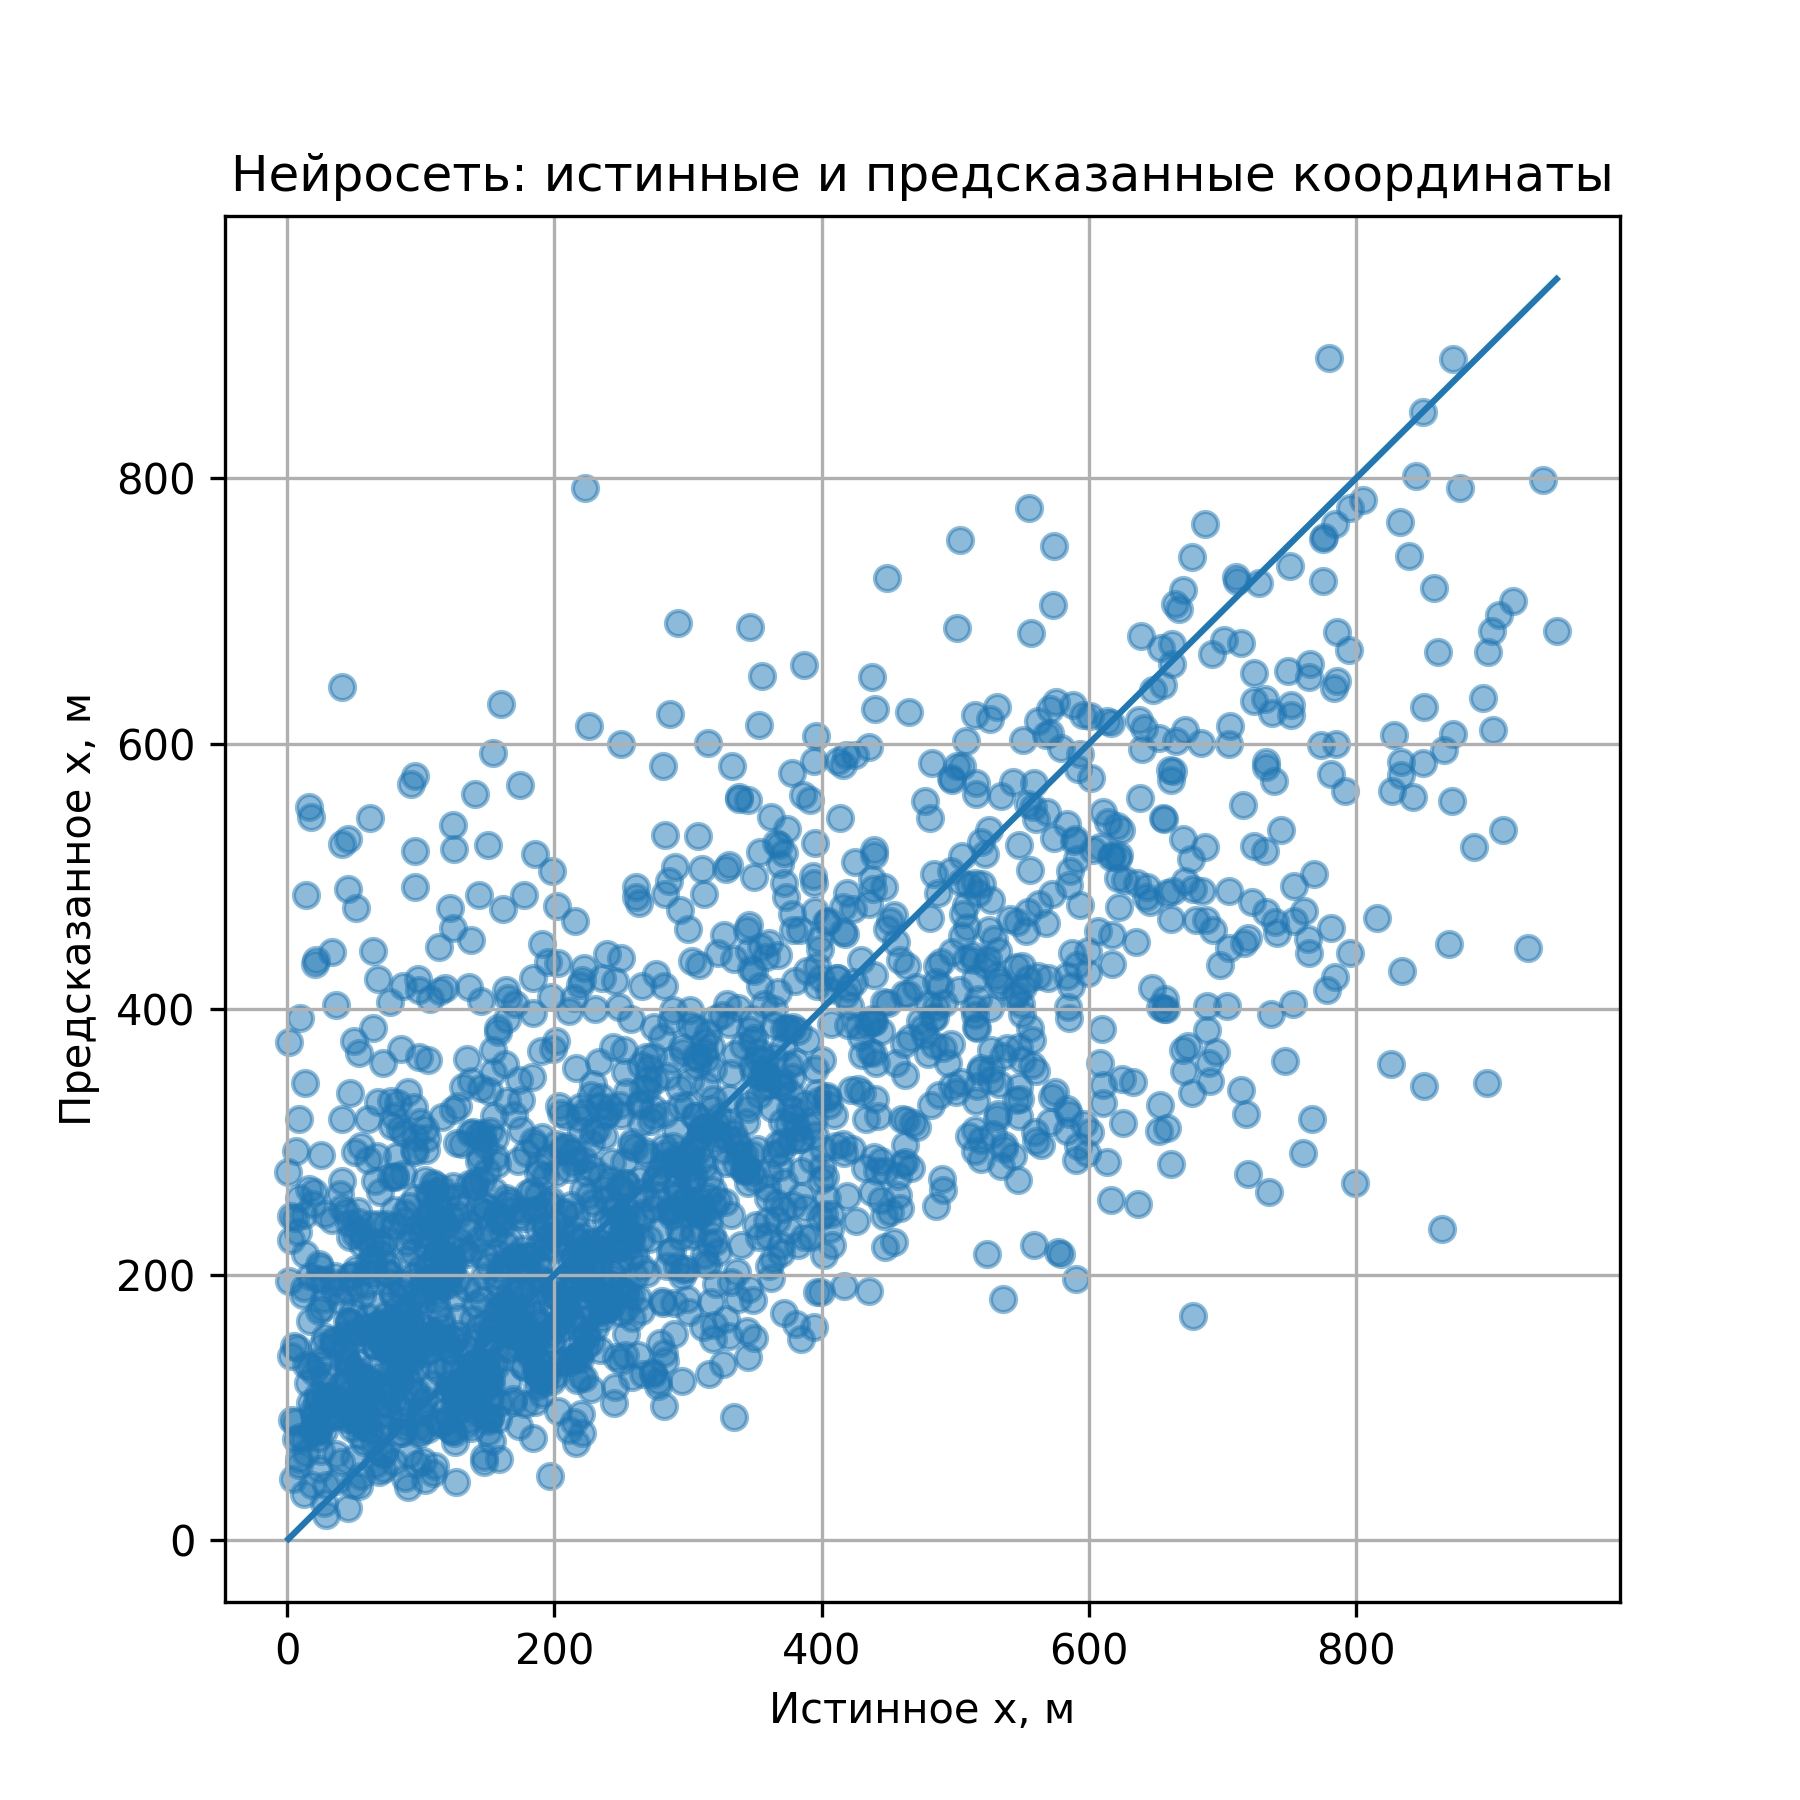
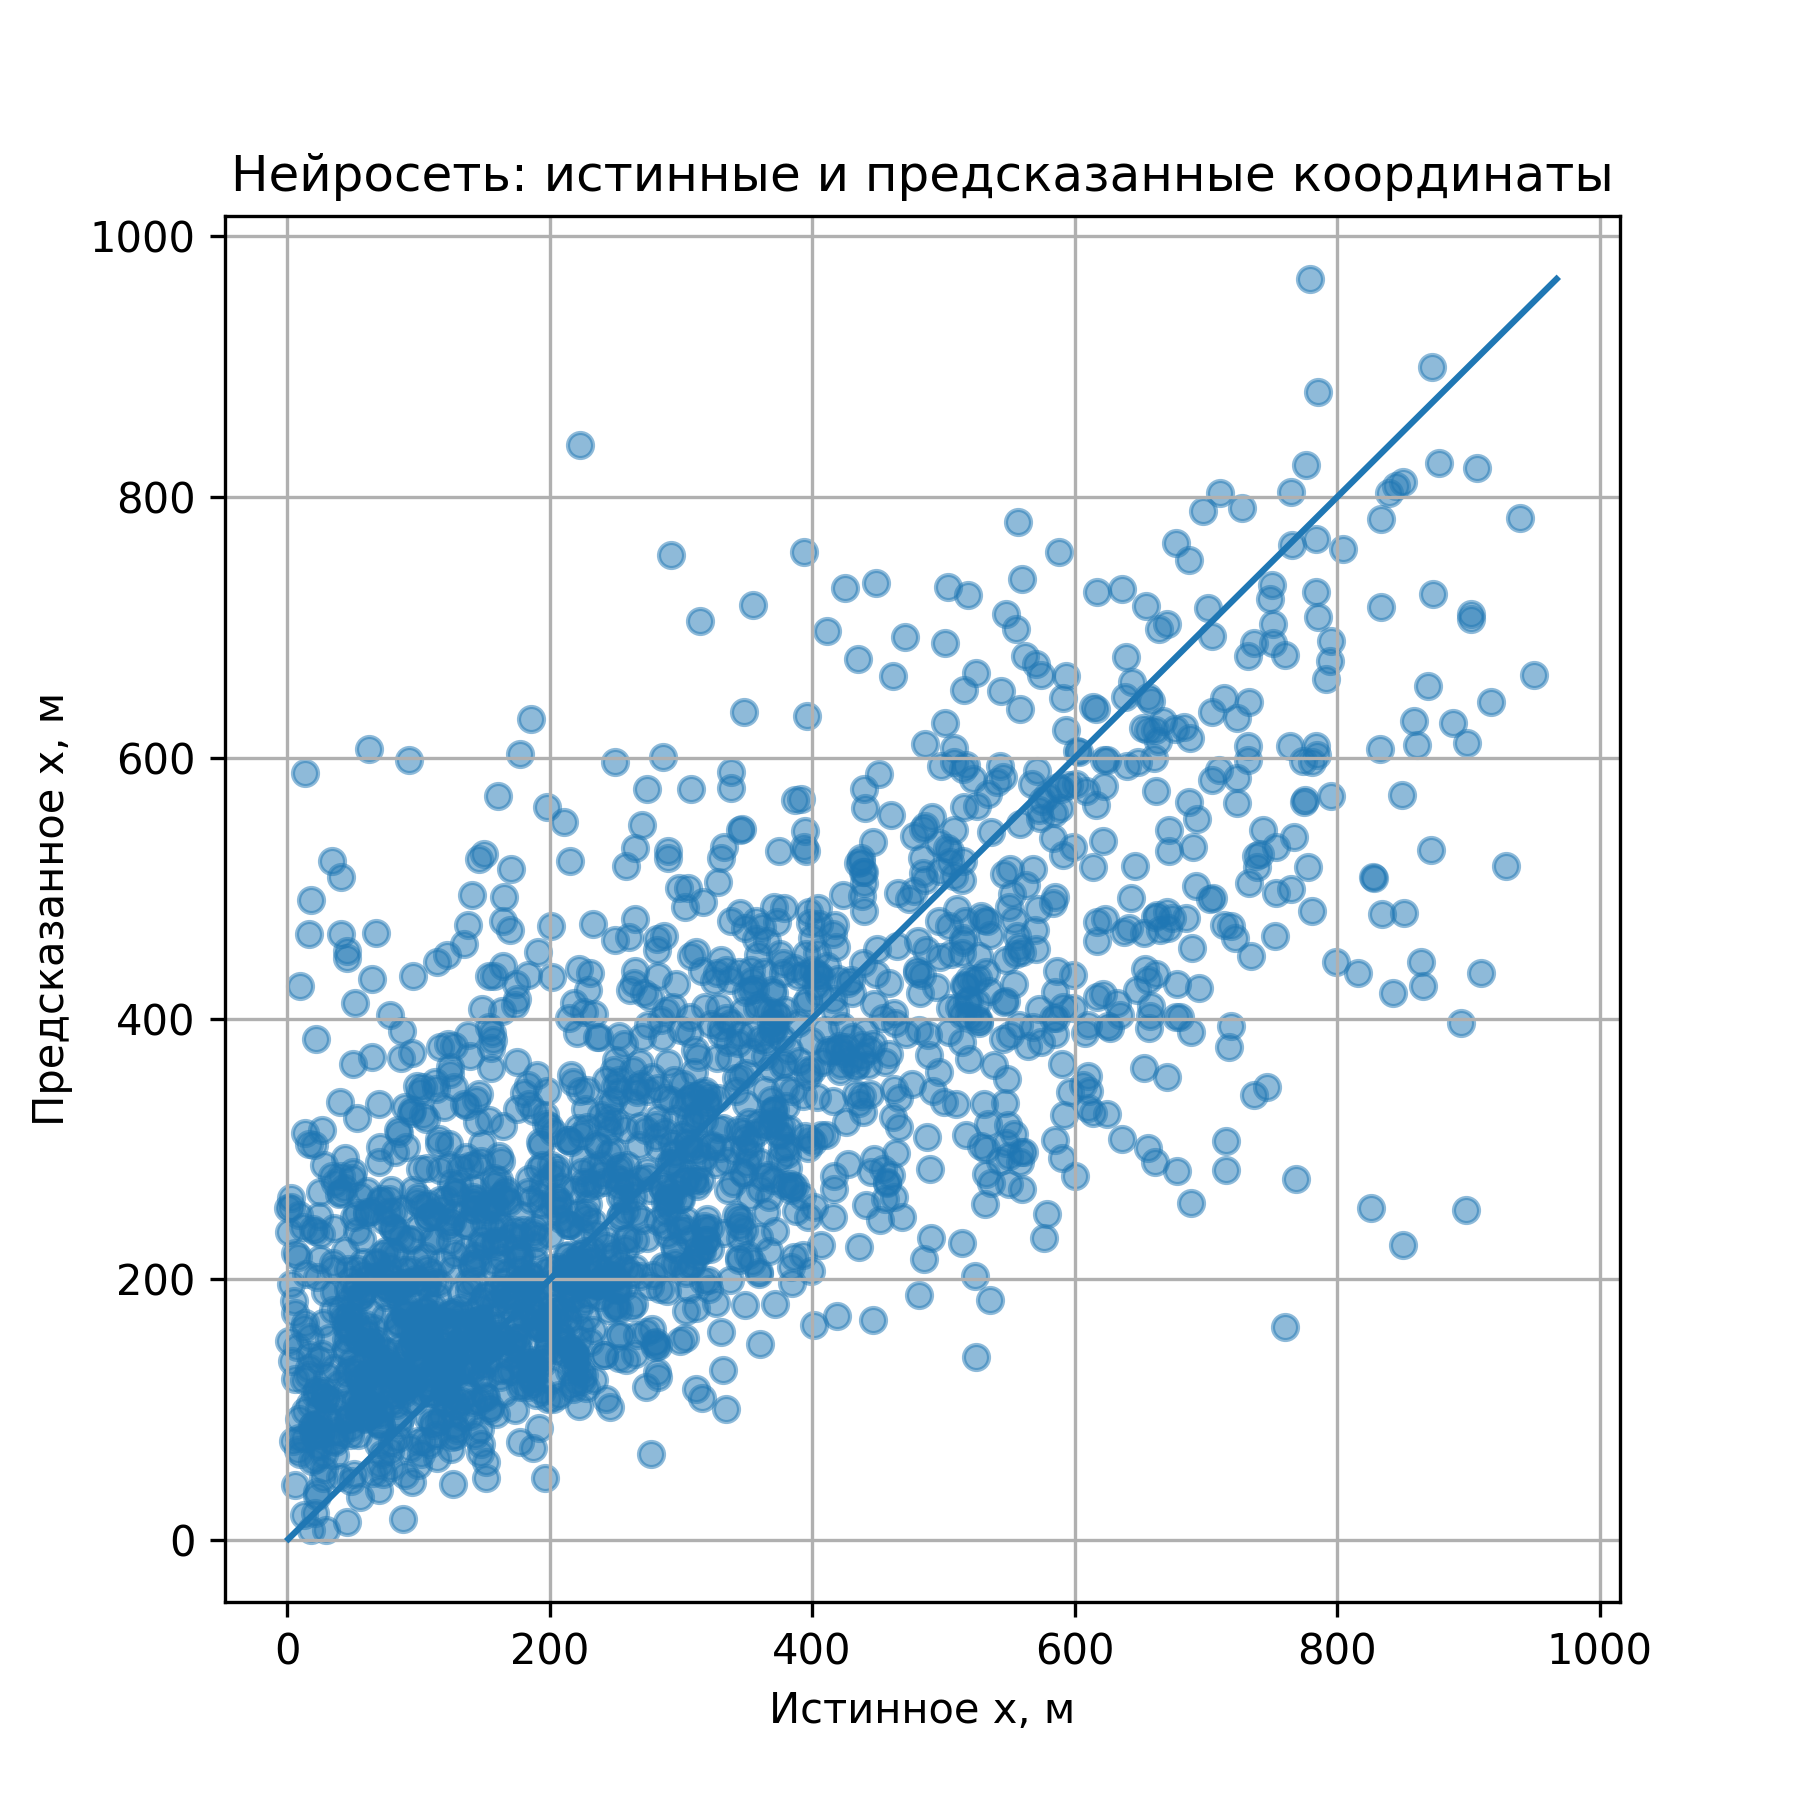
fix dataset

diff --git a/dataset.py b/dataset.py
@@ -12,42 +12,7 @@ import torch
 import torch.nn as nn
 import torch.optim as optim
 
-
-# -------------------------------------------------
-# Физические формулы
-# -------------------------------------------------
-
-def velocity(Q, d):
-    return 4.0 * Q / (math.pi * d**2)
-
-
-def reynolds_number(d, v, rho, eta):
-    return d * v * rho / eta
-
-
-def friction_coefficient(k_e, d, Re):
-    if Re <= 0:
-        return None
-    if Re < 2300:
-        return 64.0 / Re
-    return 0.11 * ((k_e / d) + (68.0 / Re)) ** 0.25
-
-
-def resistance_coefficient(lam, d, rho0):
-    return 626.1 * rho0 * lam / d**5
-
-
-def leak_coordinate(P_start, P_end, Q_start, Q_end, L, k):
-    denom = Q_start**2 - Q_end**2
-    if denom <= 0:
-        return None
-    return ((P_start - P_end) / k - L * Q_end**2) / denom
-
-
-def pressure_end_from_true_x(P_start, x_true, Q_start, Q_end, L, k):
-    return P_start - k * (x_true * (Q_start**2 - Q_end**2) + L * Q_end**2)
-
-
+from physics import*
 # -------------------------------------------------
 # Генерация физически согласованного датасета
 # -------------------------------------------------
@@ -185,244 +150,3 @@ def generate_dataset(n_samples=12000, seed=42):
         })
 
     return pd.DataFrame(rows)
-
-
-# -------------------------------------------------
-# Нейросеть
-# -------------------------------------------------
-
-class LeakNet(nn.Module):
-    def __init__(self, input_dim):
-        super().__init__()
-
-        self.net = nn.Sequential(
-            nn.Linear(input_dim, 64),
-            nn.ReLU(),
-
-            nn.Linear(64, 64),
-            nn.ReLU(),
-
-            nn.Linear(64, 32),
-            nn.ReLU(),
-
-            nn.Linear(32, 1),
-            nn.Sigmoid()   # т.к. предсказываем x_norm в [0, 1]
-        )
-
-    def forward(self, x):
-        return self.net(x)
-
-
-# -------------------------------------------------
-# Обучение модели
-# -------------------------------------------------
-
-def train_model(X_train, y_train, X_val, y_val, epochs=200, lr=1e-3):
-    device = torch.device("cuda" if torch.cuda.is_available() else "cpu")
-
-    model = LeakNet(X_train.shape[1]).to(device)
-
-    criterion = nn.MSELoss()
-    optimizer = optim.Adam(model.parameters(), lr=lr)
-
-    X_train_t = torch.tensor(X_train, dtype=torch.float32).to(device)
-    y_train_t = torch.tensor(y_train.reshape(-1, 1), dtype=torch.float32).to(device)
-
-    X_val_t = torch.tensor(X_val, dtype=torch.float32).to(device)
-    y_val_t = torch.tensor(y_val.reshape(-1, 1), dtype=torch.float32).to(device)
-
-    train_losses = []
-    val_losses = []
-
-    for epoch in range(epochs):
-        model.train()
-        optimizer.zero_grad()
-
-        pred_train = model(X_train_t)
-        loss_train = criterion(pred_train, y_train_t)
-
-        loss_train.backward()
-        optimizer.step()
-
-        model.eval()
-        with torch.no_grad():
-            pred_val = model(X_val_t)
-            loss_val = criterion(pred_val, y_val_t)
-
-        train_losses.append(loss_train.item())
-        val_losses.append(loss_val.item())
-
-        if (epoch + 1) % 20 == 0:
-            print(
-                f"Epoch {epoch + 1:3d}/{epochs} | "
-                f"train_loss={loss_train.item():.6f} | "
-                f"val_loss={loss_val.item():.6f}"
-            )
-
-    return model, train_losses, val_losses
-
-
-# -------------------------------------------------
-# Основной блок
-# -------------------------------------------------
-
-if __name__ == "__main__":
-    df = generate_dataset(n_samples=12000, seed=42)
-
-    print("Размер датасета:", df.shape)
-    print(df.head())
-
-    df.to_csv("gas_leak_physics_ml_dataset.csv", index=False)
-
-    # -----------------------------
-    # Baseline: аналитическая формула
-    # -----------------------------
-    mae_formula = mean_absolute_error(df["x_true"], df["x_formula"])
-    rmse_formula = math.sqrt(mean_squared_error(df["x_true"], df["x_formula"]))
-    r2_formula = r2_score(df["x_true"], df["x_formula"])
-
-    print("\nАналитическая формула по шумным измерениям:")
-    print(f"MAE  = {mae_formula:.3f} м")
-    print(f"RMSE = {rmse_formula:.3f} м")
-    print(f"R2   = {r2_formula:.6f}")
-
-    # -----------------------------
-    # Признаки для нейросети
-    # -----------------------------
-    feature_cols = [
-        "P_start",
-        "P_end",
-        "Q_start",
-        "Q_end",
-        "d",
-        "L",
-        "rho0",
-        "eta",
-        "k_e",
-        "k",
-        "deltaP",
-        "deltaQ",
-        "deltaQ2",
-        "rel_leak",
-        "noise_level",
-        "leak_fraction"
-    ]
-
-    # Цель: нормированная координата
-    target_col = "x_norm"
-
-    X = df[feature_cols].values
-    y = df[target_col].values
-
-    X_train, X_temp, y_train, y_temp = train_test_split(
-        X, y, test_size=0.30, random_state=42
-    )
-
-    X_val, X_test, y_val, y_test = train_test_split(
-        X_temp, y_temp, test_size=0.50, random_state=42
-    )
-
-    scaler = StandardScaler()
-    X_train_scaled = scaler.fit_transform(X_train)
-    X_val_scaled = scaler.transform(X_val)
-    X_test_scaled = scaler.transform(X_test)
-
-    model, train_losses, val_losses = train_model(
-        X_train_scaled, y_train, X_val_scaled, y_val,
-        epochs=200, lr=1e-3
-    )
-
-    # -----------------------------
-    # Предсказание нейросети
-    # -----------------------------
-    device = torch.device("cuda" if torch.cuda.is_available() else "cpu")
-    model.eval()
-
-    X_test_t = torch.tensor(X_test_scaled, dtype=torch.float32).to(device)
-
-    with torch.no_grad():
-        y_pred_norm = model(X_test_t).cpu().numpy().flatten()
-
-    # Метрики в нормированных координатах
-    mae_norm = mean_absolute_error(y_test, y_pred_norm)
-    rmse_norm = math.sqrt(mean_squared_error(y_test, y_pred_norm))
-    r2_norm = r2_score(y_test, y_pred_norm)
-
-    print("\nНейросеть: метрики для x/L")
-    print(f"MAE  = {mae_norm:.6f}")
-    print(f"RMSE = {rmse_norm:.6f}")
-    print(f"R2   = {r2_norm:.6f}")
-
-    # Перевод обратно в метры
-    # L находится в X_test, индекс признака "L"
-    L_idx = feature_cols.index("L")
-    L_test = X_test[:, L_idx]
-
-    x_true_m = y_test * L_test
-    x_pred_m = y_pred_norm * L_test
-
-    mae_m = mean_absolute_error(x_true_m, x_pred_m)
-    rmse_m = math.sqrt(mean_squared_error(x_true_m, x_pred_m))
-    r2_m = r2_score(x_true_m, x_pred_m)
-
-    print("\nНейросеть: метрики для координаты в метрах")
-    print(f"MAE  = {mae_m:.3f} м")
-    print(f"RMSE = {rmse_m:.3f} м")
-    print(f"R2   = {r2_m:.6f}")
-
-    # Для сравнения аналитической формулы на том же test
-    df_train, df_temp = train_test_split(df, test_size=0.30, random_state=42)
-    df_val, df_test = train_test_split(df_temp, test_size=0.50, random_state=42)
-
-    mae_formula_test = mean_absolute_error(df_test["x_true"], df_test["x_formula"])
-    rmse_formula_test = math.sqrt(mean_squared_error(df_test["x_true"], df_test["x_formula"]))
-    r2_formula_test = r2_score(df_test["x_true"], df_test["x_formula"])
-
-    print("\nАналитическая формула на test:")
-    print(f"MAE  = {mae_formula_test:.3f} м")
-    print(f"RMSE = {rmse_formula_test:.3f} м")
-    print(f"R2   = {r2_formula_test:.6f}")
-
-    # -----------------------------
-    # Графики
-    # -----------------------------
-    plt.figure(figsize=(8, 5))
-    plt.plot(train_losses, label="train")
-    plt.plot(val_losses, label="val")
-    plt.xlabel("Epoch")
-    plt.ylabel("MSE loss")
-    plt.title("График обучения нейросети")
-    plt.legend()
-    plt.grid(True)
-    plt.show()
-
-    plt.figure(figsize=(6, 6))
-    plt.scatter(x_true_m, x_pred_m, alpha=0.5)
-    mn = min(x_true_m.min(), x_pred_m.min())
-    mx = max(x_true_m.max(), x_pred_m.max())
-    plt.plot([mn, mx], [mn, mx])
-    plt.xlabel("Истинное x, м")
-    plt.ylabel("Предсказанное x, м")
-    plt.title("Нейросеть: истинные и предсказанные координаты")
-    plt.grid(True)
-    plt.show()
-
-    errors_nn = x_pred_m - x_true_m
-    plt.figure(figsize=(8, 5))
-    plt.hist(errors_nn, bins=40)
-    plt.xlabel("Ошибка нейросети, м")
-    plt.ylabel("Частота")
-    plt.title("Гистограмма ошибок нейросети")
-    plt.grid(True)
-    plt.show()
-
-    plt.figure(figsize=(6, 6))
-    plt.scatter(df_test["x_true"], df_test["x_formula"], alpha=0.5)
-    mn = min(df_test["x_true"].min(), df_test["x_formula"].min())
-    mx = max(df_test["x_true"].max(), df_test["x_formula"].max())
-    plt.plot([mn, mx], [mn, mx])
-    plt.xlabel("Истинное x, м")
-    plt.ylabel("Формула x, м")
-    plt.title("Аналитическая формула: истинные и рассчитанные координаты")
-    plt.grid(True)
-    plt.show()